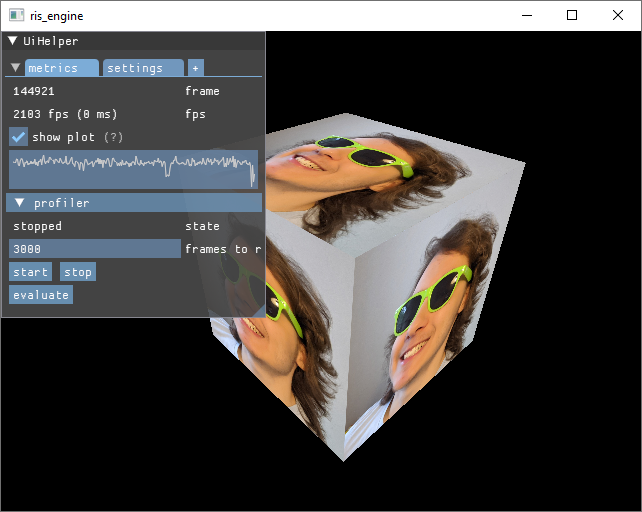
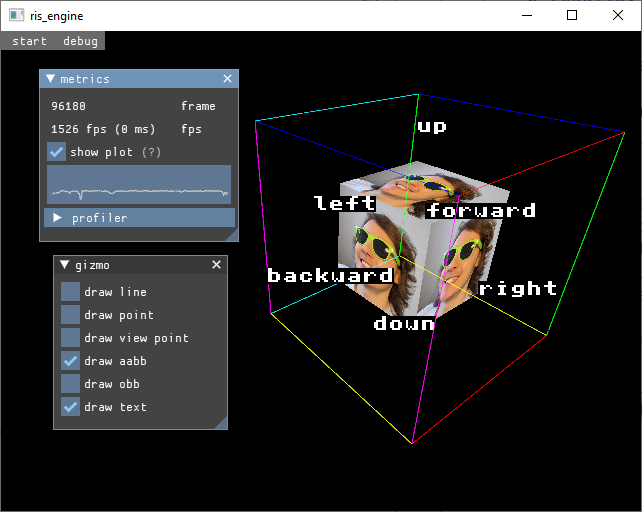
fixed a bug that caused the engine to crash if it is minimized. also added newer screenshot

diff --git a/crates/ris_core/src/output_frame.rs b/crates/ris_core/src/output_frame.rs
@@ -6,6 +6,7 @@ use sdl2_sys::SDL_WindowFlags;
 
 use ris_asset::RisGodAsset;
 use ris_data::gameloop::frame::Frame;
+use ris_data::gameloop::gameloop_state::GameloopState;
 use ris_data::god_state::GodState;
 use ris_error::Extensions;
 use ris_error::RisResult;
@@ -18,6 +19,9 @@ use ris_video::vulkan::core::VulkanCore;
 use ris_video::vulkan::frame_in_flight::FrameInFlight;
 use ris_video::vulkan::swapchain::SwapchainEntry;
 
+use crate::ui_helper::UiHelper;
+use crate::ui_helper::UiHelperDrawData;
+
 pub struct Renderer {
     pub scene: SceneRenderer,
     pub gizmo_segment: GizmoSegmentRenderer,
@@ -26,13 +30,14 @@ pub struct Renderer {
 }
 
 pub struct OutputFrame {
-    current_frame: usize,
-    renderer: Renderer,
-    imgui_backend: ImguiBackend,
+    pub current_frame: usize,
+    pub renderer: Renderer,
+    pub imgui_backend: ImguiBackend,
+    pub ui_helper: UiHelper,
 
     // mut be dropped last
-    core: VulkanCore,
-    window: Window,
+    pub core: VulkanCore,
+    pub window: Window,
 }
 
 impl Drop for OutputFrame {
@@ -60,48 +65,16 @@ impl Drop for OutputFrame {
 }
 
 impl OutputFrame {
-    pub fn new(
-        window: Window,
-        core: VulkanCore,
-        renderer: Renderer,
-        imgui_backend: ImguiBackend,
-    ) -> RisResult<Self> {
-        Ok(Self {
-            current_frame: 0,
-            renderer,
-            imgui_backend,
-            core,
-            window,
-        })
-    }
-
-    pub fn prepare_imgui_frame(&mut self, frame: Frame, state: &mut GodState) -> &mut imgui::Ui {
-        let window_size = self.window.size();
-        let window_drawable_size = self.window_drawable_size();
-        let imgui_ui = self.imgui_backend.prepare_frame(
-            frame,
-            state,
-            (window_size.0 as f32, window_size.1 as f32),
-            (window_drawable_size.0 as f32, window_drawable_size.1 as f32),
-        );
-
-        imgui_ui
-    }
-
-    pub fn window_drawable_size(&self) -> (u32, u32) {
-        self.window.vulkan_drawable_size()
-    }
-
     pub fn run(
         &mut self,
-        _frame: Frame,
+        frame: Frame,
         state: &mut GodState,
         god_asset: &RisGodAsset,
-    ) -> RisResult<()> {
+    ) -> RisResult<GameloopState> {
         let window_flags = self.window.window_flags();
         let is_minimized = (window_flags & SDL_WindowFlags::SDL_WINDOW_MINIMIZED as u32) != 0;
         if is_minimized {
-            return Ok(());
+            return Ok(GameloopState::WantsToContinue);
         }
 
         let mut r = ris_debug::new_record!("run output frame");
@@ -131,6 +104,25 @@ impl OutputFrame {
 
         unsafe { device.wait_for_fences(&[*in_flight], true, u64::MAX) }?;
         unsafe { device.reset_fences(&[*in_flight]) }?;
+
+        // ui helper
+        ris_debug::add_record!(r, "ui helper")?;
+
+        let window_size = self.window.size();
+        let window_drawable_size = self.window.vulkan_drawable_size();
+        let imgui_ui = self.imgui_backend.prepare_frame(
+            frame,
+            state,
+            (window_size.0 as f32, window_size.1 as f32),
+            (window_drawable_size.0 as f32, window_drawable_size.1 as f32),
+        );
+
+        let ui_helper_state = self.ui_helper.draw(UiHelperDrawData {
+            ui: imgui_ui,
+            frame,
+            state,
+            window_drawable_size,
+        })?;
 
         // rebuild renderers
         ris_debug::add_record!(r, "rebuild renderers")?;
@@ -170,7 +162,9 @@ impl OutputFrame {
             Ok((image_index, _is_sub_optimal)) => image_index,
             Err(vk_result) => match vk_result {
                 vk::Result::ERROR_OUT_OF_DATE_KHR => {
-                    return self.core.recreate_swapchain(self.window_drawable_size())
+                    self.core
+                        .recreate_swapchain(self.window.vulkan_drawable_size())?;
+                    return Ok(ui_helper_state);
                 }
                 vk_result => {
                     return ris_error::new_result!("failed to acquire chain image: {}", vk_result)
@@ -197,7 +191,7 @@ impl OutputFrame {
 
         // prepare camera
         ris_debug::add_record!(r, "prepare camera")?;
-        let window_drawable_size = self.window_drawable_size();
+        let window_drawable_size = self.window.vulkan_drawable_size();
         let (w, h) = (window_drawable_size.0 as f32, window_drawable_size.1 as f32);
         state.camera.aspect_ratio = w / h;
 
@@ -299,7 +293,7 @@ impl OutputFrame {
             Ok(_) => state.event_window_resized,
             Err(vk_result) => match vk_result {
                 vk::Result::ERROR_OUT_OF_DATE_KHR | vk::Result::SUBOPTIMAL_KHR => {
-                    Some(self.window_drawable_size())
+                    Some(self.window.vulkan_drawable_size())
                 }
                 vk_result => {
                     return ris_error::new_result!("failed to present queue: {}", vk_result)
@@ -312,6 +306,6 @@ impl OutputFrame {
         }
 
         ris_debug::end_record!(r)?;
-        Ok(())
+        Ok(ui_helper_state)
     }
 }

diff --git a/crates/ris_core/src/god_job.rs b/crates/ris_core/src/god_job.rs
@@ -3,7 +3,6 @@ use ris_error::RisResult;
 use ris_jobs::job_system;
 
 use crate::god_object::GodObject;
-use crate::ui_helper::UiHelperDrawData;
 
 pub enum WantsTo {
     Quit,
@@ -42,19 +41,6 @@ pub fn run(mut god_object: GodObject) -> RisResult<WantsTo> {
 
         ris_debug::add_record!(r, "logic frame")?;
         let logic_result = god_object.logic_frame.run(frame, &mut god_object.state);
-
-        ris_debug::add_record!(r, "ui helper")?;
-        let window_drawable_size = god_object.output_frame.window_drawable_size();
-        let imgui_ui = god_object
-            .output_frame
-            .prepare_imgui_frame(frame, &mut god_object.state);
-
-        let ui_helper_result = god_object.ui_helper.draw(UiHelperDrawData {
-            ui: imgui_ui,
-            frame,
-            state: &mut god_object.state,
-            window_drawable_size,
-        });
 
         ris_debug::add_record!(r, "output frame")?;
         let output_result =
@@ -98,21 +84,18 @@ pub fn run(mut god_object: GodObject) -> RisResult<WantsTo> {
         // handle errors
         ris_debug::add_record!(r, "handle errors")?;
 
-        output_result?;
         save_settings_result?;
         let logic_state = logic_result?;
-        let ui_helper_state = ui_helper_result?;
+        let output_state = output_result?;
 
         ris_debug::end_record!(r)?;
 
-        if logic_state == GameloopState::WantsToQuit
-            || ui_helper_state == GameloopState::WantsToQuit
-        {
+        if logic_state == GameloopState::WantsToQuit || output_state == GameloopState::WantsToQuit {
             return Ok(WantsTo::Quit);
         }
 
         if logic_state == GameloopState::WantsToRestart
-            || ui_helper_state == GameloopState::WantsToRestart
+            || output_state == GameloopState::WantsToRestart
         {
             return Ok(WantsTo::Restart);
         }

diff --git a/crates/ris_core/src/god_object.rs b/crates/ris_core/src/god_object.rs
@@ -51,7 +51,6 @@ pub struct GodObject {
     pub settings_serializer: SettingsSerializer,
     pub frame_calculator: FrameCalculator,
     pub logic_frame: LogicFrame,
-    pub ui_helper: UiHelper,
     pub output_frame: OutputFrame,
     pub god_asset: RisGodAsset,
 
@@ -142,10 +141,8 @@ impl GodObject {
         // logic frame
         let logic_frame = LogicFrame::new(event_pump, sdl_context.keyboard(), controller_subsystem);
 
-        // ui helper
-        let ui_helper = UiHelper::new(&app_info)?;
-
         // output frame
+        let ui_helper = UiHelper::new(&app_info)?;
         let renderer = Renderer {
             scene: scene_renderer,
             gizmo_segment: gizmo_segment_renderer,
@@ -153,7 +150,14 @@ impl GodObject {
             imgui: imgui_renderer,
         };
 
-        let output_frame = OutputFrame::new(window, vulkan_core, renderer, imgui_backend)?;
+        let output_frame = OutputFrame {
+            current_frame: 0,
+            renderer,
+            imgui_backend,
+            ui_helper,
+            core: vulkan_core,
+            window,
+        };
 
         let frame_calculator = FrameCalculator::default();
 
@@ -183,7 +187,6 @@ impl GodObject {
             settings_serializer,
             frame_calculator,
             logic_frame,
-            ui_helper,
             output_frame,
             god_asset,
 
